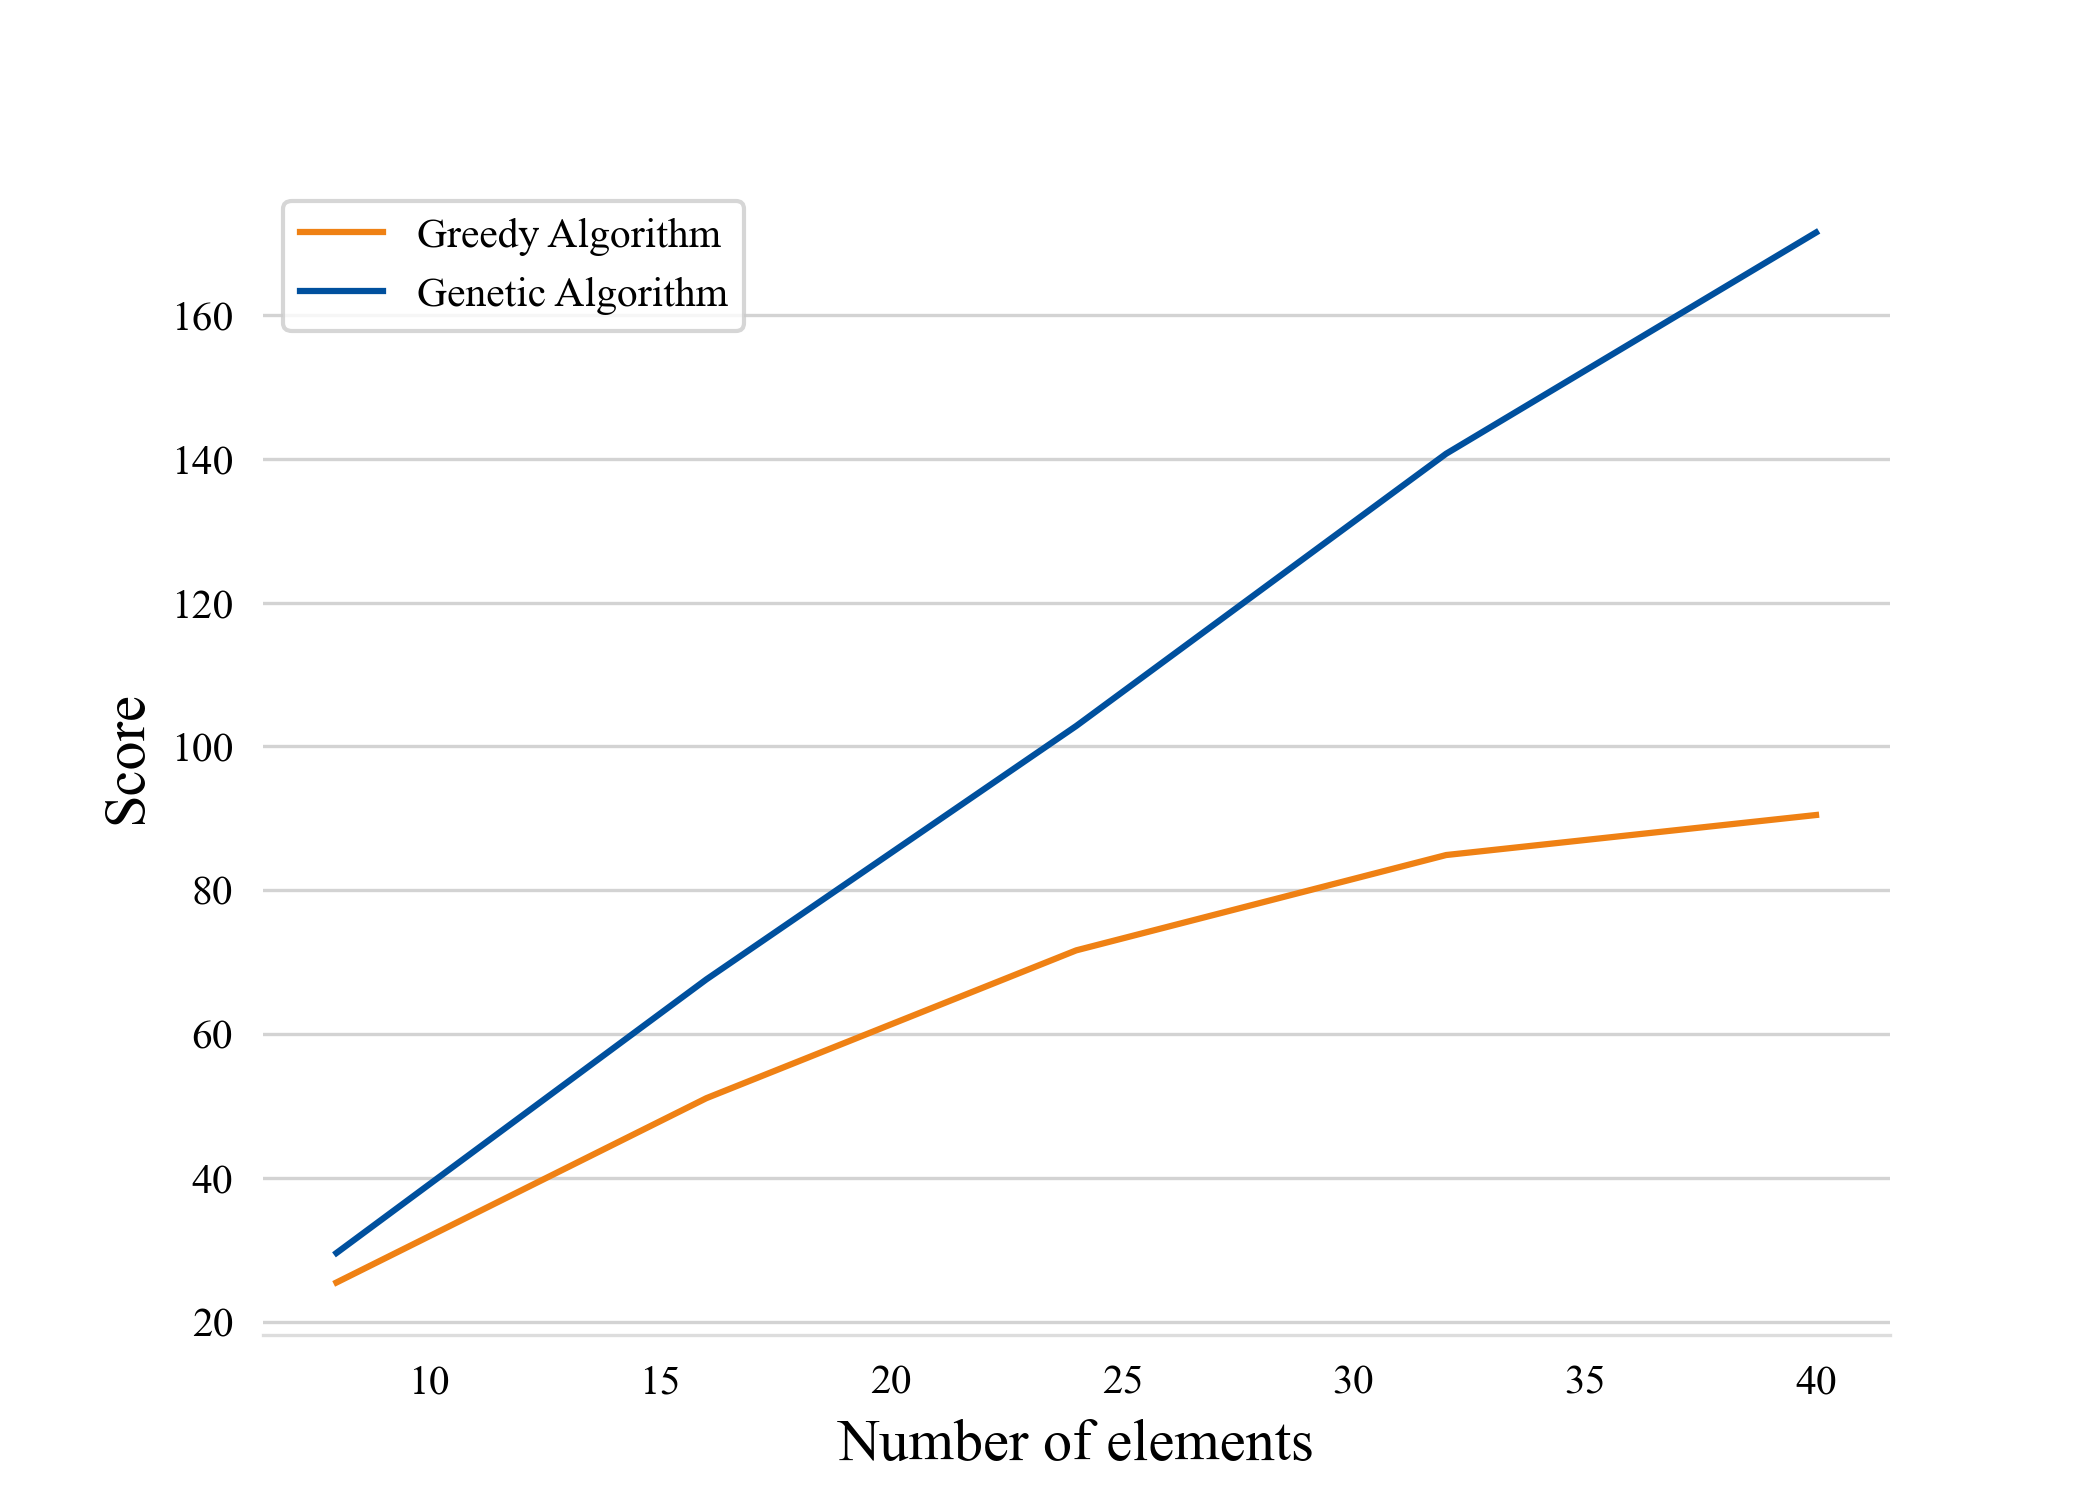
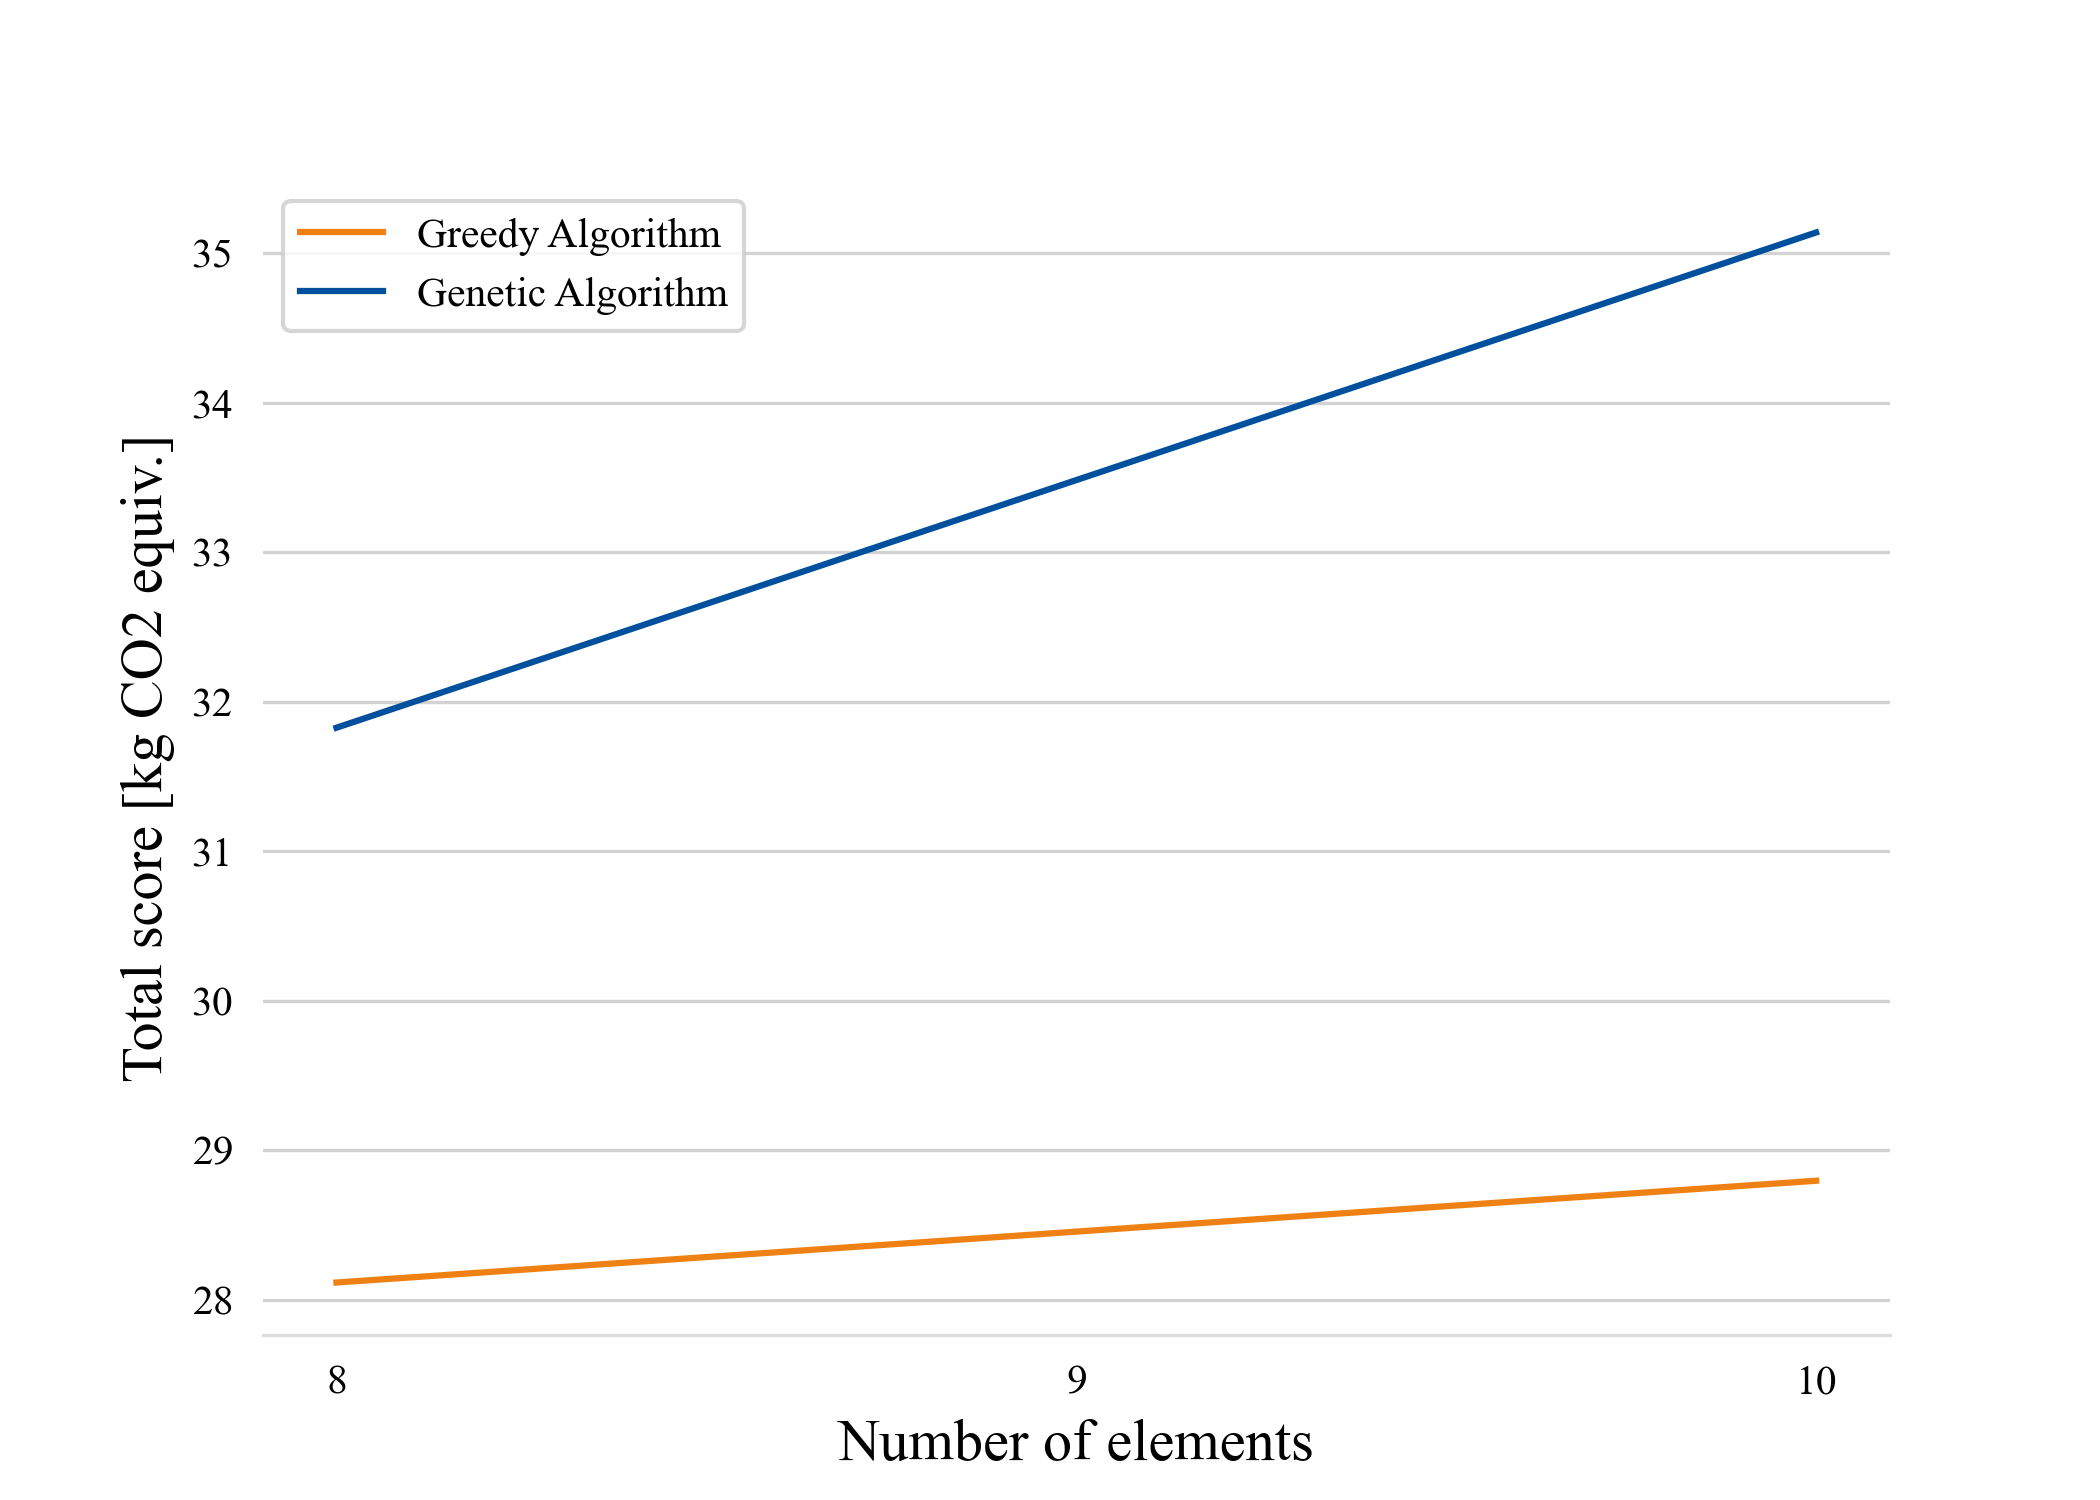
Added more locations and fixed the constants for each study case

diff --git a/TestCases/study_case_brute.py b/TestCases/study_case_brute.py
@@ -13,28 +13,26 @@ import plotting as plot
 #Constants
 #TODO: FIND ALL DEFAULT VALUES FOR CONSTANTS, especially for price
 constants = {
-    "TIMBER_GWP": 28.9,       # based on NEPD-3442-2053-EN
-    "TIMBER_REUSE_GWP": 2.25,        # 0.0778*28.9 = 2.25 based on Eberhardt
-    "TRANSPORT_GWP": 96.0,    # TODO kg/m3/t based on ????
-    "TIMBER_DENSITY": 491.0,  # kg, based on NEPD-3442-2053-EN
-    "STEEL_GWP": 800, #Random value
-    "STEEL_REUSE_GWP": 4, #Random value
-    "VALUATION_GWP": 0.6, #In kr:Per kg CO2, based on OECD
-    "TIMBER_PRICE": 435, #Per m^3 https://www.landkredittbank.no/blogg/2021/prisen-pa-sagtommer-okte-20-prosent/
-    "TIMBER_REUSE_PRICE" : 100, #Per m^3, Random value
-    "STEEL_PRICE": 500, #Per m^2, Random value
-    "STEEL_REUSE_PRICE": 200, #Per m^2, Random value
-    "PRICE_TRANSPORTATION": 3.78, #Price per km per tonn. Derived from 2011 numbers on scaled t0 2022 using SSB
+    "TIMBER_GWP": 28.9,       #kg CO2 eq per m^3, based on NEPD-3442-2053-EN
+    "TIMBER_REUSE_GWP": 2.25,        # 0.0778*28.9 = 2.25kg CO2 eq per m^3, based on Eberhardt
+    "TRANSPORT_GWP": 89.6,    #gram per tonne per km, Engedal et. al. 
+    "TIMBER_DENSITY": 491.0,  #kg/m^3, based on NEPD-3442-2053-EN
+    "STEEL_GWP": 9263.0, #kg CO2 eq per m^3, Norsk stål + density of steel
+    "STEEL_REUSE_GWP": 278.0, #kg CO2 eq per m^3, reduction of 97% from new according to Høydahl and Walter
+    "VALUATION_GWP": 0.7, #NOK per kg CO2, based on OECD
+    "TIMBER_PRICE": 3400.0, #Per m^3, Treindustrien 2023
+    "TIMBER_REUSE_PRICE" : 3400.0, #Per m^3, assumes the price is the same is new elements
+    "STEEL_PRICE": 500, #Per m^2, Random value TODO: ADD REAL VALUE
+    "STEEL_REUSE_PRICE": 200, #Per m^2, Random value TODO: ADD REAL VALUE
+    "PRICE_TRANSPORTATION": 0.3, #NOK per km per tonne, Grønland 2022 + Gran 2013
     "STEEL_DENSITY": 7850,
     ########################
-    "Project name": "Sognsveien 17",
+    "Project name": "Campussamling Hesthagen",
     "Metric": "GWP",
-    "Algorithms": ["brute", "greedy_single", "bipartite"],
+    "Algorithms": ["greedy_single", "genetic"],
     "Include transportation": False,
-    "Cite latitude": "59.94161606",
-    "Cite longitude": "10.72994518",
-    #"Demand file location": r"./CSV/DEMAND_DATAFRAME_SVERRE.xlsx",
-    #"Supply file location": r"./CSV/SUPPLY_DATAFRAME_SVERRE.xlsx",
+    "Cite latitude": "63.4154171",
+    "Cite longitude": "10.3994672",
     "Demand file location": r"./CSV/genetic_demand.csv",
     "Supply file location": r"./CSV/genetic_supply.csv",
     "constraint_dict": {'Area' : '>=', 'Moment of Inertia' : '>=', 'Length' : '>=', 'Material': '=='}
@@ -62,17 +60,17 @@ def generate_datasets(d_counts, s_counts):
 
     #GENERATE FILE
     #============
-    supply = hm.create_random_data_supply_pdf_reports(supply_count = s_counts, length_min = 1.0, length_max = 10.0, area_min = 0.15, area_max = 0.30, materials = materials, supply_coords = supply_coords)
-    demand = hm.create_random_data_demand_pdf_reports(demand_count = d_counts, length_min = 1.0, length_max = 10.0, area_min = 0.15, area_max = 0.30, materials = materials, demand_coords = demand_coords)
+    supply = hm.create_random_data_supply_pdf_reports(supply_count = s_counts, length_min = 1.0, length_max = 10.0, area_min = 0.004, area_max = 0.04, materials = materials, supply_coords = supply_coords)
+    demand = hm.create_random_data_demand_pdf_reports(demand_count = d_counts, length_min = 1.0, length_max = 10.0, area_min = 0.004, area_max = 0.04, materials = materials, demand_coords = demand_coords)
     supply.index = map(lambda text: "S" + str(text), supply.index)
     demand.index = map(lambda text: "D" + str(text), demand.index)
     return demand, supply
 
 # ========== SCENARIO 1 ============== 
 var1 = 1
-d_counts = np.linspace(2, 6, num = 2).astype(int)
+d_counts = np.linspace(4, 12, num = 5).astype(int)
 s_counts = (d_counts * var1).astype(int)
-internal_runs = 5
+internal_runs = 50
 constraint_dict = constants["constraint_dict"]
 score_function_string = hm.generate_score_function_string(constants)
 run_string = hm.generate_run_string(constants)
@@ -98,12 +96,6 @@ for d, s in zip(d_counts, s_counts):
             score_dict = {res[list(res.keys())[0]] : [] for res in result}
             dict_made = True
         for i in range(len(result)):
-            AAAA = result[i]["Match object"].result
-            if np.isnan(AAAA):
-                match_object = result[i]["Match object"]
-                weights = match_object.weights
-                pairs = match_object.pairs
-                test = 4
             temp_times[i].append(result[i]["Match object"].solution_time)
             temp_scores[i].append(result[i]["Match object"].result)
 
@@ -117,10 +109,8 @@ for d, s in zip(d_counts, s_counts):
 
 
 
-test = 2
-
 #pairs_df = pd.concat([res['Match object'].pairs for res in results[0]], axis = 1)
 #pairs_df.columns = [res[list(res.keys())[0]] for res in results[0]]
 
-plot.plot_algorithm(time_dict, x_values, xlabel = "Number of elements", ylabel = "Running time [s]", title = "", fix_overlapping = True, save_filename="brute_results_time.png")
-plot.plot_algorithm(score_dict, x_values, xlabel = "Number of elements", ylabel = "Score", title = "", fix_overlapping = True, save_filename="brute_results_score.png")
+plot.plot_algorithm(time_dict, x_values, xlabel = "Number of elements", ylabel = "Running time [s]", title = "", fix_overlapping=False, save_filename="brute_results_time.png")
+plot.plot_algorithm(score_dict, x_values, xlabel = "Number of elements", ylabel = "Total score [kg CO2 equiv.]", title = "", fix_overlapping=True, save_filename="brute_results_score.png")

diff --git a/TestCases/study_case_genetic.py b/TestCases/study_case_genetic.py
@@ -13,28 +13,26 @@ import plotting as plot
 #Constants
 #TODO: FIND ALL DEFAULT VALUES FOR CONSTANTS, especially for price
 constants = {
-    "TIMBER_GWP": 28.9,       # based on NEPD-3442-2053-EN
-    "TIMBER_REUSE_GWP": 2.25,        # 0.0778*28.9 = 2.25 based on Eberhardt
-    "TRANSPORT_GWP": 96.0,    # TODO kg/m3/t based on ????
-    "TIMBER_DENSITY": 491.0,  # kg, based on NEPD-3442-2053-EN
-    "STEEL_GWP": 800, #Random value
-    "STEEL_REUSE_GWP": 4, #Random value
-    "VALUATION_GWP": 0.6, #In kr:Per kg CO2, based on OECD
-    "TIMBER_PRICE": 435, #Per m^3 https://www.landkredittbank.no/blogg/2021/prisen-pa-sagtommer-okte-20-prosent/
-    "TIMBER_REUSE_PRICE" : 100, #Per m^3, Random value
-    "STEEL_PRICE": 500, #Per m^2, Random value
-    "STEEL_REUSE_PRICE": 200, #Per m^2, Random value
-    "PRICE_TRANSPORTATION": 3.78, #Price per km per tonn. Derived from 2011 numbers on scaled t0 2022 using SSB
+    "TIMBER_GWP": 28.9,       #kg CO2 eq per m^3, based on NEPD-3442-2053-EN
+    "TIMBER_REUSE_GWP": 2.25,        # 0.0778*28.9 = 2.25kg CO2 eq per m^3, based on Eberhardt
+    "TRANSPORT_GWP": 89.6,    #gram per tonne per km, Engedal et. al. 
+    "TIMBER_DENSITY": 491.0,  #kg/m^3, based on NEPD-3442-2053-EN
+    "STEEL_GWP": 9263.0, #kg CO2 eq per m^3, Norsk stål + density of steel
+    "STEEL_REUSE_GWP": 278.0, #kg CO2 eq per m^3, reduction of 97% from new according to Høydahl and Walter
+    "VALUATION_GWP": 0.7, #NOK per kg CO2, based on OECD
+    "TIMBER_PRICE": 3400.0, #Per m^3, Treindustrien 2023
+    "TIMBER_REUSE_PRICE" : 3400.0, #Per m^3, assumes the price is the same is new elements
+    "STEEL_PRICE": 500, #Per m^2, Random value TODO: ADD REAL VALUE
+    "STEEL_REUSE_PRICE": 200, #Per m^2, Random value TODO: ADD REAL VALUE
+    "PRICE_TRANSPORTATION": 0.3, #NOK per km per tonne, Grønland 2022 + Gran 2013
     "STEEL_DENSITY": 7850,
     ########################
-    "Project name": "Sognsveien 17",
+    "Project name": "Campussamling Hesthagen",
     "Metric": "GWP",
     "Algorithms": ["greedy_single", "genetic"],
     "Include transportation": False,
-    "Cite latitude": "59.94161606",
-    "Cite longitude": "10.72994518",
-    #"Demand file location": r"./CSV/DEMAND_DATAFRAME_SVERRE.xlsx",
-    #"Supply file location": r"./CSV/SUPPLY_DATAFRAME_SVERRE.xlsx",
+    "Cite latitude": "63.4154171",
+    "Cite longitude": "10.3994672",
     "Demand file location": r"./CSV/genetic_demand.csv",
     "Supply file location": r"./CSV/genetic_supply.csv",
     "constraint_dict": {'Area' : '>=', 'Moment of Inertia' : '>=', 'Length' : '>=', 'Material': '=='}
@@ -44,15 +42,20 @@ constants = {
 def generate_datasets(d_counts, s_counts):
     supply_coords = pd.DataFrame(columns = ["Location", "Latitude", "Longitude"])
 
-    tiller = ["Tiller", "63.3604", "10.4008"]
-    gjovik = ["Gjovik", "60.8941", "10.5001"]
+    tiller = ["Tiller", "63.3590272", "10.3751236"]
+    storen = ["Støren", "63.033639", "10.286356"]
     orkanger = ["Orkanger", "63.3000", "9.8468"]
     storlien = ["Storlien", "63.3160", "12.1018"]
+    hell = ["Hell", "63.4452539", "10.8971079"]
+    melhus = ["Melhus", "63.2897753", "10.2934154"]
+
 
     supply_coords.loc[len(supply_coords)] = tiller
-    supply_coords.loc[len(supply_coords)] = gjovik
+    supply_coords.loc[len(supply_coords)] = storen
     supply_coords.loc[len(supply_coords)] = orkanger
     supply_coords.loc[len(supply_coords)] = storlien
+    supply_coords.loc[len(supply_coords)] = hell
+    supply_coords.loc[len(supply_coords)] = melhus
 
 
     demand_coords = {"Steel": ("Norsk Stål Trondheim", "63.4384474", "10.40994"), "Timber": ("XL-BYGG Lade","63.4423683","10.4438836")}
@@ -70,7 +73,7 @@ def generate_datasets(d_counts, s_counts):
 
 # ========== SCENARIO 1 ============== 
 var1 = 1
-d_counts = np.linspace(4, 20, num = 5).astype(int)
+d_counts = np.linspace(4, 5, num = 2).astype(int)
 s_counts = (d_counts * var1).astype(int)
 internal_runs = 50
 constraint_dict = constants["constraint_dict"]
@@ -98,12 +101,6 @@ for d, s in zip(d_counts, s_counts):
             score_dict = {res[list(res.keys())[0]] : [] for res in result}
             dict_made = True
         for i in range(len(result)):
-            AAAA = result[i]["Match object"].result
-            if np.isnan(AAAA):
-                match_object = result[i]["Match object"]
-                weights = match_object.weights
-                pairs = match_object.pairs
-                test = 4
             temp_times[i].append(result[i]["Match object"].solution_time)
             temp_scores[i].append(result[i]["Match object"].result)
 
@@ -117,10 +114,8 @@ for d, s in zip(d_counts, s_counts):
 
 
 
-test = 2
-
 #pairs_df = pd.concat([res['Match object'].pairs for res in results[0]], axis = 1)
 #pairs_df.columns = [res[list(res.keys())[0]] for res in results[0]]
 
 plot.plot_algorithm(time_dict, x_values, xlabel = "Number of elements", ylabel = "Running time [s]", title = "", fix_overlapping=False, save_filename="genetic_results_time.png")
-plot.plot_algorithm(score_dict, x_values, xlabel = "Number of elements", ylabel = "Score", title = "", fix_overlapping=False, save_filename="genetic_results_score.png")
+plot.plot_algorithm(score_dict, x_values, xlabel = "Number of elements", ylabel = "Total score [kg CO2 equiv.]", title = "", fix_overlapping=False, save_filename="genetic_results_score.png")

diff --git a/TestCases/study_case_master_thesis.py b/TestCases/study_case_master_thesis.py
@@ -55,6 +55,7 @@ def generate_datasets(d_counts, s_counts):
     supply_coords.loc[len(supply_coords)] = orkanger
     supply_coords.loc[len(supply_coords)] = storlien
     supply_coords.loc[len(supply_coords)] = hell
+    supply_coords.loc[len(supply_coords)] = melhus
     
 
 
@@ -72,10 +73,9 @@ def generate_datasets(d_counts, s_counts):
     return demand, supply
 
 # ========== SCENARIO 1 ============== 
-var1 = 1
-d_counts = np.linspace(4, 12, num = 5).astype(int)
-s_counts = (d_counts * var1).astype(int)
-internal_runs = 50
+d_counts = 1000
+s_counts = 1000
+internal_runs = 1
 constraint_dict = constants["constraint_dict"]
 score_function_string = hm.generate_score_function_string(constants)
 run_string = hm.generate_run_string(constants)
